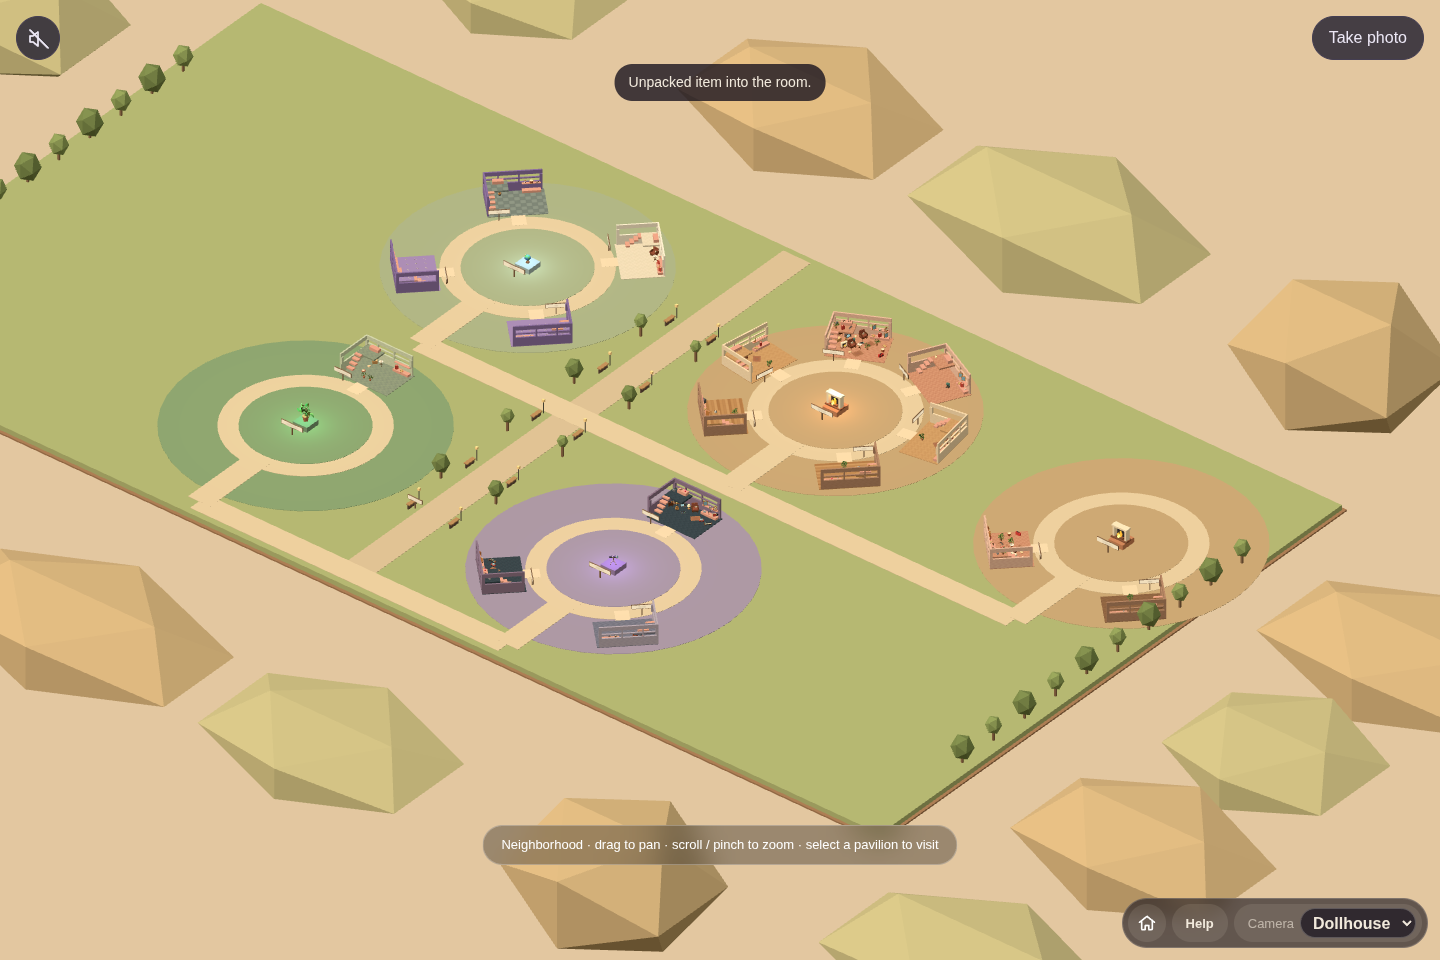
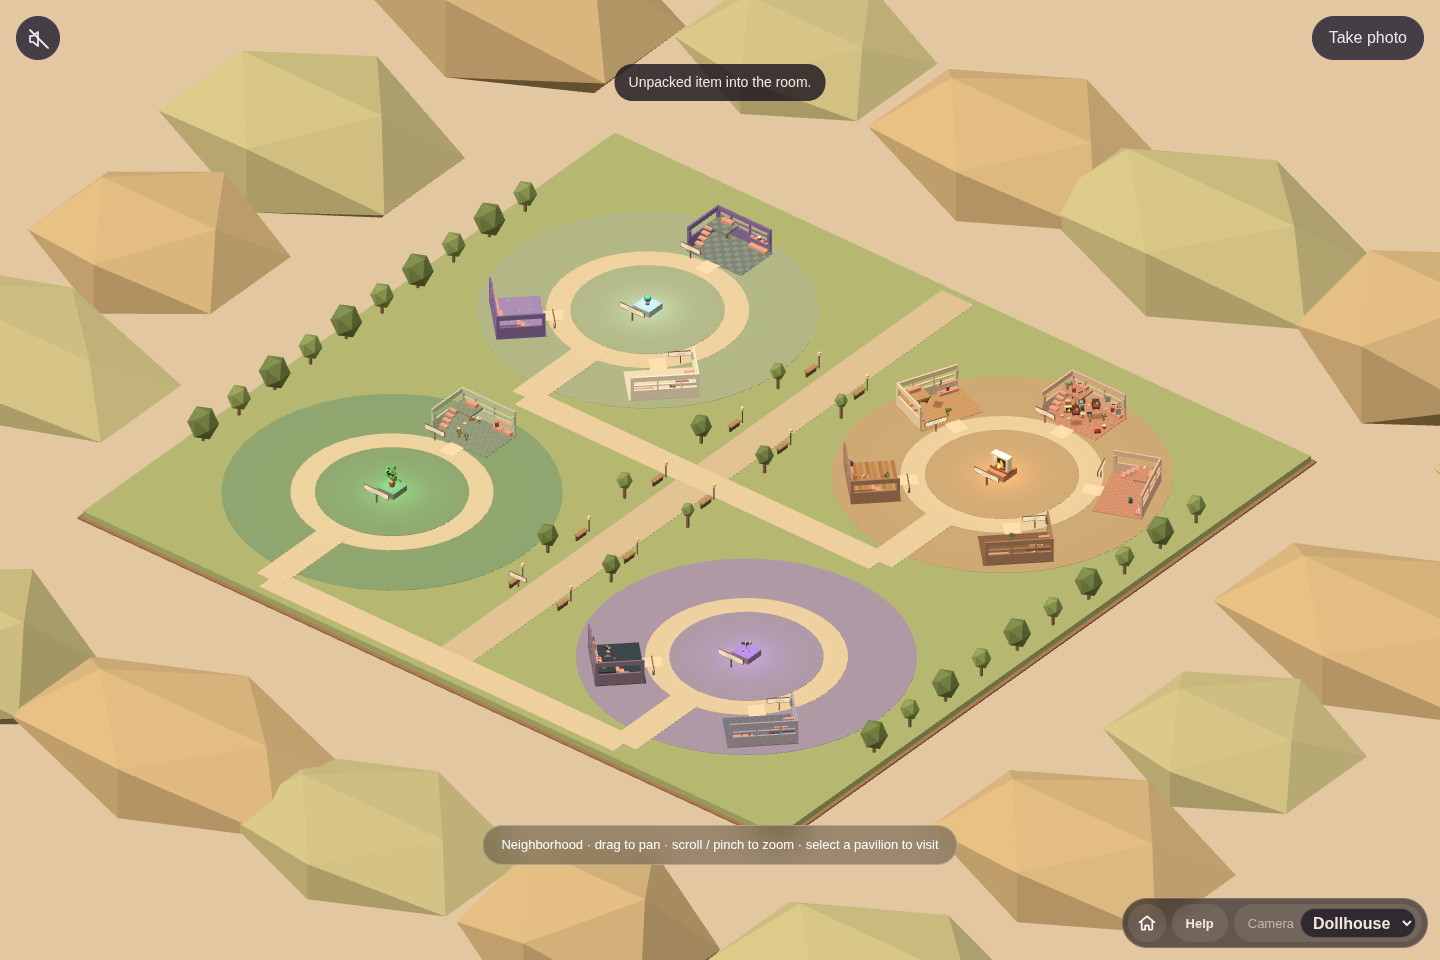
fix(neighborhood): list each room once by folding seed files into named rooms

diff --git a/dev-sandbox/tests/room-portal.test.ts b/dev-sandbox/tests/room-portal.test.ts
@@ -1,7 +1,7 @@
 import test from 'node:test';
 import assert from 'node:assert/strict';
 import { Store, newRoom, roomKeys } from '../src/core/store';
-import { roomCatalog, visitCatalogRoom, randomRoom, loadRoomJson } from '../src/core/room-portal';
+import { roomCatalog, seededRepoNames, visitCatalogRoom, randomRoom, loadRoomJson } from '../src/core/room-portal';
 const saved = new Map<string,string>();
 globalThis.localStorage = { getItem: (k:string) => saved.get(k) ?? null, setItem: (k:string,v:string) => saved.set(k,v), removeItem:(k:string)=>saved.delete(k) } as Storage;
 const repo = [{name:'german',data:newRoom('German')}, {name:'extra',data:newRoom('Extra')}];
@@ -11,6 +11,25 @@ test('catalog includes My room, every directory room and every committed room wi
  assert.ok(catalog.some(r=>r.id==='repo:extra'));
  assert.ok(catalog.some(r=>r.id==='directory:matt'));
  assert.equal(new Set(catalog.map(r=>r.id)).size,catalog.length);
+});
+test('a named room and the file it seeds from are one entry, not two', () => {
+ // german.json is German's room's own content; vinyl-lounge is Matt's seed when matt.json is absent.
+ const files = [{name:'german',data:newRoom('German')},{name:'vinyl-lounge',data:newRoom('Vinyl')},{name:'curious-web',data:newRoom('Curious')}];
+ assert.deepEqual([...seededRepoNames(Object.fromEntries(files.map(f=>[f.name,f.data])))].sort(),
+   ['creative-atelier','garden-notebook','german','omari','vinyl-lounge']);
+ const catalog = roomCatalog(files);
+ assert.equal(catalog.filter(r=>r.id==='repo:german').length,0,'German is listed once, as the named room');
+ assert.equal(catalog.filter(r=>r.id==='repo:vinyl-lounge').length,0,"Matt's seed is not a second room");
+ assert.ok(catalog.some(r=>r.id==='repo:curious-web'),'rooms no named room represents are still offered');
+ assert.ok(catalog.some(r=>r.label==="German's room"));
+ assert.equal(new Set(catalog.map(r=>r.label)).size,catalog.length,'no two rooms share a label');
+
+ // A file matching the room id wins over the slot seed, so only that file is consumed.
+ const withMatt = [...files,{name:'matt',data:newRoom('Matt file')}];
+ const consumed = seededRepoNames(Object.fromEntries(withMatt.map(f=>[f.name,f.data])));
+ assert.ok(consumed.has('matt'));
+ assert.ok(!consumed.has('vinyl-lounge'),'the unused seed becomes a room of its own');
+ assert.ok(roomCatalog(withMatt).some(r=>r.id==='repo:vinyl-lounge'));
 });
 test('random visits exclude home/current; repeated visits preserve the personal room and persisted JSON', () => {
  const store = new Store(newRoom('Personal'), 'demo-visit');

diff --git a/dev-sandbox/src/core/room-portal.ts b/dev-sandbox/src/core/room-portal.ts
@@ -2,11 +2,28 @@ import { Store, normalizeRoom } from './store';
 import { ROOM_DIRECTORY, seedRoom } from './rooms';
 import type { RoomState } from './types';
 export interface CatalogRoom { id: string; label: string; data?: RoomState }
+
+/**
+ * Which rooms/<name>.json each named room actually seeds from, mirroring `seedSource()`:
+ * a file matching the room id wins over the slot's `seed`. Those files are the named room's own
+ * content, so listing them again as unnamed repo rooms would show the same room twice.
+ */
+export function seededRepoNames(repo: Record<string, unknown>): Set<string> {
+  const used = new Set<string>();
+  for (const slot of ROOM_DIRECTORY) {
+    if (slot.seed === undefined) continue;
+    used.add(slot.id in repo ? slot.id : slot.seed);
+  }
+  return used;
+}
+
 export function roomCatalog(rooms: {name:string;data:unknown}[]): CatalogRoom[] {
  const repo=Object.fromEntries(rooms.map(r=>[r.name,r.data]));
+ const named=seededRepoNames(repo);
  return [ {id:'home',label:'My room'},
   ...ROOM_DIRECTORY.filter(r=>r.id!=='guest').map(r=>({id:'directory:'+r.id,label:r.defaultName,data:seedRoom(r.id,repo)})),
-  ...rooms.map(r=>({id:'repo:'+r.name,label:r.name.replaceAll('-',' ').replace(/\b\w/g,c=>c.toUpperCase()),data:normalizeRoom(r.data)})),
+  // Only the repo rooms no named room already represents.
+  ...rooms.filter(r=>!named.has(r.name)).map(r=>({id:'repo:'+r.name,label:r.name.replaceAll('-',' ').replace(/\b\w/g,c=>c.toUpperCase()),data:normalizeRoom(r.data)})),
  ];
 }
 export function visitCatalogRoom(store:Store, room:CatalogRoom):void {
